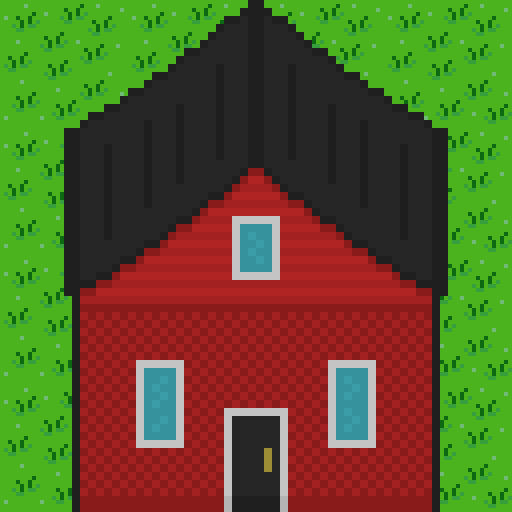
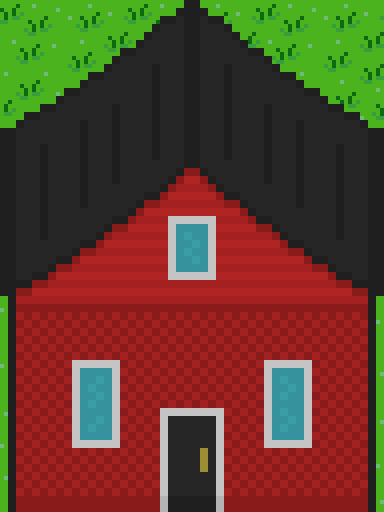
Image aangepast

diff --git a/RPG/src/Controller/MainController.java b/RPG/src/Controller/MainController.java
@@ -76,7 +76,6 @@ public class MainController {
 			moveNPCs(dir);
 			
 			player.move(Direction.getOpposite(dir));
-//			System.out.println(player.getX() + " " + player.getY());
 		}
 	}
 	
